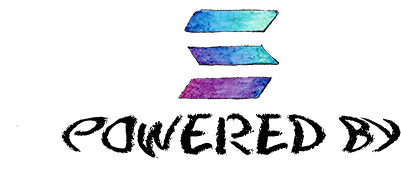
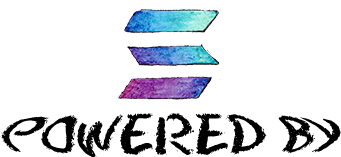
mobile + tablet version

diff --git a/src/pages/Home/style.scss b/src/pages/Home/style.scss
@@ -1,11 +1,13 @@
+@import '../../Variable.scss';
+
 @mixin default {
     width: 80%;
     margin: auto;
     padding: 120px 0;
 
-    @media screen and (max-width: 768px) {
+    @include breakpoint(untilTablet) {
         width: 100%;
-        padding: 40px 0;
+        padding: 80px 1.5rem;
     }
 }
 
@@ -48,11 +50,19 @@
         .item {
             margin: 0 1rem;
             display: block;
+
+            img {
+                width: 100%;
+            }
             > div {
                 text-align: end;
                 font-weight: bold;
                 font-size: 12px;
                 margin-top: -.25rem;
+
+                @include breakpoint(untilTablet) {
+                    font-size: 8px;
+                }
             }
         }
     }
@@ -71,6 +81,16 @@
         transform: translateY(-50%);
         img {
             max-width: 150px
+        }
+    }
+
+    @include breakpoint(untilTablet) {
+        .text {
+            padding: 80px 1rem;
+        }
+
+        .kepo {
+            display: none
         }
     }
 }
@@ -94,6 +114,14 @@
         text-align: center;
         width: 25%;
         padding: .75rem;
+
+        @include breakpoint(untilTablet) {
+            width: 33%;
+        }
+
+        @include breakpoint(mobileonly) {
+            width: 50%;
+        }
         .team-img {
             margin-bottom: 1rem;
             img {
@@ -146,6 +174,42 @@
                 }
             }
         }
+
+        @include breakpoint(untilTablet) {
+            .text {
+                margin-bottom: 3rem;
+            }
+            .date-launch {
+                margin-bottom: 3rem;
+                img {
+                    max-width: 100%;
+                }
+            }
+
+            .countdown {
+                .d-flex {
+                    flex-wrap: wrap;
+                    width: 60%;
+                    margin: auto;
+                }
+                .item {
+                    font-size: 2.5rem;
+                    margin: .5rem;
+                    display: flex;
+                    justify-content: space-between;
+                    align-items: center;
+                    width: 100%;
+                    .title {
+                        font-size: 1.15rem;
+                        margin-bottom: 0;
+                    }
+
+                    &.separator {
+                        display: none;
+                    }
+                }
+            }
+        }
     }
 
     .kepo-2 {
@@ -156,6 +220,9 @@
 
         img {
             max-width: 150px;
+        }
+        @include breakpoint(untilTablet) {
+            display: none;
         }
     }
 }
@@ -187,6 +254,50 @@
 
     .last-row {
         align-items: center;
+
+        .solana {
+            text-align: end;
+        }
+
+        img {
+            max-width: 250px;
+        }
+    }
+
+    @include breakpoint(mobileonly) {
+        h1 {
+            font-size: 2rem;
+        }
+    }
+
+    @include breakpoint(untilTablet) {
+        h1 {
+            font-size: 3rem;
+        }
+
+        .first-row {
+            .pfp {
+                text-align: center;
+                margin-bottom: 4rem;
+            }
+
+            .join {
+                text-align: center;
+                font-size: 1.5rem;
+            }
+        }
+
+        .last-row {
+            .about {
+                order: 2;
+            }
+
+            .solana {
+                order: 1;
+                text-align: center;
+                margin-bottom: 2rem;
+            }
+        }
     }
    
 }

diff --git a/src/components/Navigation/index.js b/src/components/Navigation/index.js
@@ -1,31 +1,47 @@
-import React from "react";
+import React, { useState } from "react";
 import Logo from '../../assets/images/logo.png';
 import Discord from '../../assets/images/discord.png';
 import Twitter from '../../assets/images/twitter.png';
 import Instagram from '../../assets/images/instagram.png';
+import Menu from '../../assets/images/Menu.png';
 
 import './style.scss';
+import { Button, Offcanvas, OffcanvasBody, OffcanvasHeader } from "reactstrap";
 
 const Navigation = () => {
+    const [open, setOpen] = useState(false);
+
+    const handleOpen = () => {
+        setOpen(true);
+    }
+
+    const close = () => {
+        setOpen(false);
+    }
     return (
-        <div className="navbar">
-            <div className="container">
-                <a href="https://wtfkilledtimmy.online" className="logo">
-                    <img src={Logo} alt="wtfkilledtimmy" />
-                </a>
-                <div className="socials">
-                    <a href="https://discord.gg/mgTURNpJ3v" className="item">
-                        <img src={Discord} alt="Discord" />
+        <>
+            <div className="navbar">
+                <div className="container">
+                    <a href="https://wtfkilledtimmy.online" className="logo">
+                        <img src={Logo} alt="wtfkilledtimmy" />
                     </a>
-                    <a href="https://twitter.com/wtfkilledtimmy" className="item">
-                        <img src={Twitter} alt="Twitter" />
-                    </a>
-                    <a href="https://instagram.com/wtfkilledtimmy" className="item">
-                        <img src={Instagram} alt="Instagram" />
-                    </a>
+                    <div className="socials">
+                        <a href="https://discord.gg/mgTURNpJ3v" className="item">
+                            <img src={Discord} alt="Discord" />
+                        </a>
+                        <a href="https://twitter.com/wtfkilledtimmy" className="item">
+                            <img src={Twitter} alt="Twitter" />
+                        </a>
+                        <a href="https://instagram.com/wtfkilledtimmy" className="item">
+                            <img src={Instagram} alt="Instagram" />
+                        </a>
+                    </div>
+                    <div className="hamburger" onClick={() => handleOpen()}>
+                        <img src={Menu} alt='menu' />
+                    </div>
                 </div>
             </div>
-        </div>
+        </>
     )
 }
 

diff --git a/src/pages/Home/index.js b/src/pages/Home/index.js
@@ -31,7 +31,7 @@ import Oki from "../../assets/images/Oki.png";
 import Lizzie from "../../assets/images/Lizzie.png";
 
 import PFP from "../../assets/images/PFP.png";
-import Solana from "../../assets/images/powered by.png";
+import Solana from "../../assets/images/solana.png";
 
 import "./style.scss";
 
@@ -424,16 +424,13 @@ const Home = () => {
                         </div>
                     </div>
                     <div className="row last-row">
-                        <div className="col-12 col-lg-6">
-                            <p>
+                        <div className="col-12 col-lg-6 about">
                                 WTFKilledTimmy is the world’s first deflationary
                                 hand-drawn generative collection of 870 NFTs
                                 made using crayons & pencils that
-                                rested in peace on SOLana blockchain.
-                            </p>
                         </div>
-                        <div className="col-12 col-lg-6 text-end">
-                            <img src={Solana} alt='PFP' />
+                        <div className="col-12 col-lg-6 solana">
+                                <img src={Solana} alt='PFP' />
                         </div>
                     </div>
                 </div>

diff --git a/src/Variable.scss b/src/Variable.scss
@@ -1,0 +1,28 @@
+/* BREAKPOINTS */
+@mixin breakpoint($point) {
+    @if $point == desktop {
+      @media (min-width: 1200px) {
+        @content;
+      }
+    } @else if $point == laptop {
+      @media (min-width: 992px) {
+        @content;
+      }
+    } @else if $point == largeDesktop {
+      @media (min-width: 1400px) {
+        @content;
+      }
+    } @else if $point == tablet {
+      @media (min-width: 768px) {
+        @content;
+      }
+    } @else if $point == mobileonly {
+      @media (max-width: 576px) {
+        @content;
+      }
+    } @else if $point == untilTablet {
+      @media (max-width: 900px) {
+        @content;
+      }
+    }
+}

diff --git a/src/components/Navigation/style.scss b/src/components/Navigation/style.scss
@@ -1,3 +1,5 @@
+@import '../../Variable.scss';
+
 .navbar {
     position: sticky;
     top: 10px;
@@ -15,6 +17,24 @@
 
             img {
                 max-height: 40px;
+            }
+        }
+    }
+
+    .hamburger {
+        display: none;
+    }
+
+    @include breakpoint(untilTablet) {
+        .socials {
+            display: none;
+        }
+
+        .hamburger {
+            display: block;
+
+            img {
+                max-width: 50px;
             }
         }
     }

diff --git a/src/App.scss b/src/App.scss
@@ -1,6 +1,8 @@
 @import '~bootstrap/scss/bootstrap.scss';
 @import './assets/fonts/style.scss';
 
+@import './Variable.scss';
+
 html, body {
     font-family: 'eraserregular', sans-serif;
     color: black;
@@ -15,4 +17,8 @@ h1,h2,h3,h4,h5,h6,p {
     background-image: url(./assets/images/background.png);
     background-repeat: repeat-y;
     min-height: 100vh;
+
+    @include breakpoint(untilTablet) {
+        background-size: 100%;
+    }
 }

diff --git a/src/components/Footer/style.scss b/src/components/Footer/style.scss
@@ -1,7 +1,13 @@
+@import '../../Variable.scss';
+
 .footer {
     .item {
         margin: 0 .5rem;
         color: black;
         text-decoration: none;
+
+        @include breakpoint(mobileonly) {
+            font-size: 8px;
+        }
     }
 }
